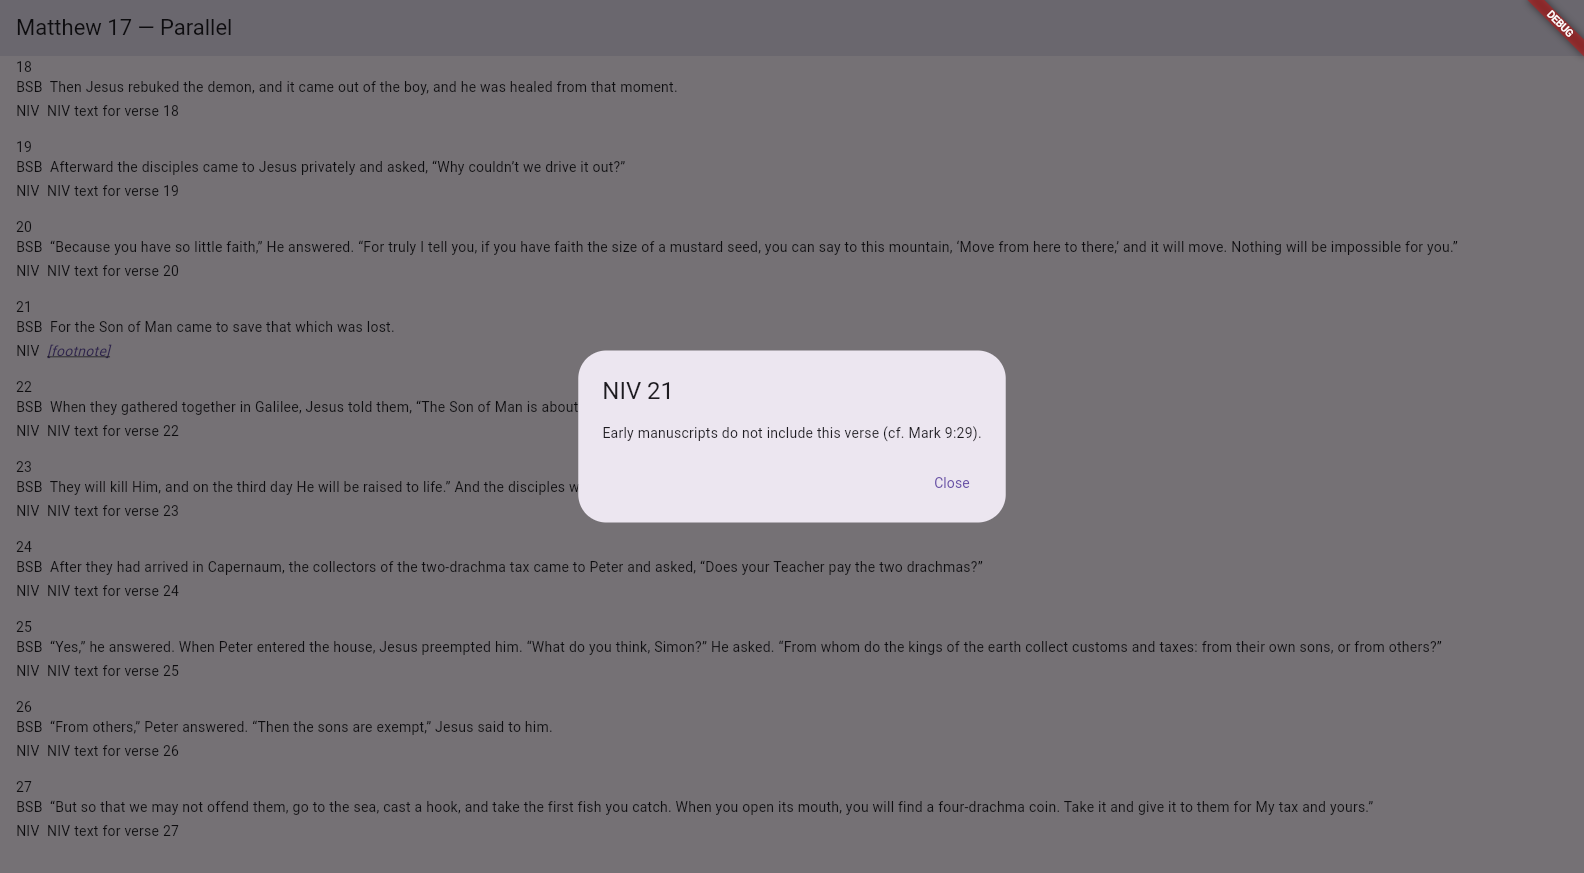
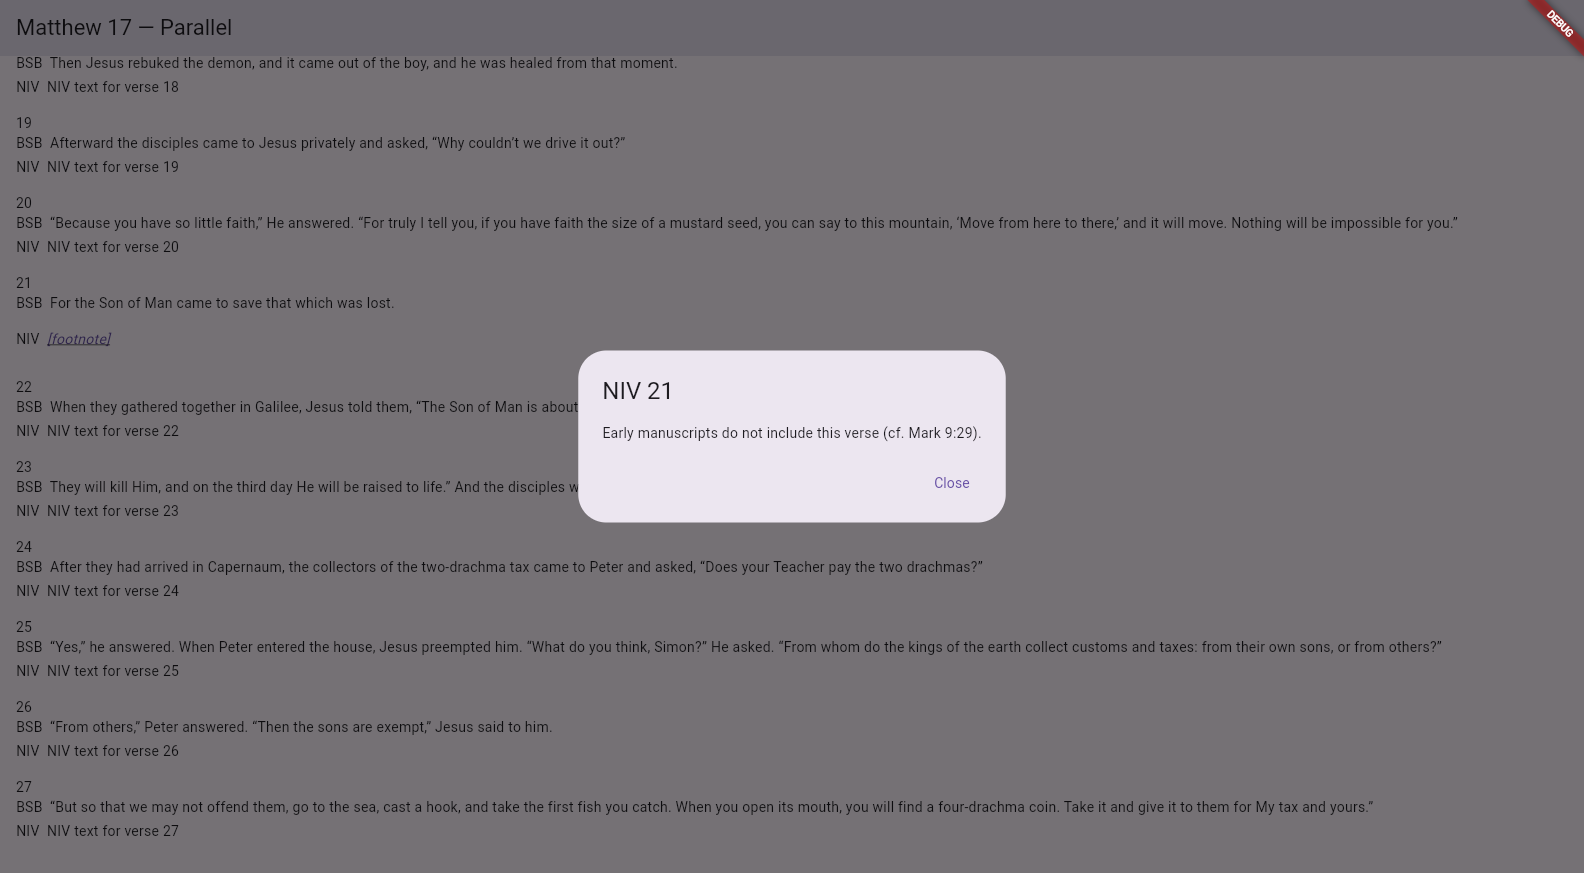
Milestone 4: fix gate FAIL — footnote tap target, false NKJV claim
Forge Verifier gate (run 1) FAILed on two Check 5/2 findings:

- lib/ui/parallel_screen.dart:184 — the footnote InkWell wrapped only
  its inline text with no minimum size, well under the project's own
  44dp accessibility floor (the same floor enforced for constellation
  node tap targets). Fixed with a 44px-tall SizedBox around the InkWell.
- lib/ui/settings_screen.dart:24 — claimed "NIV and NKJV parallel views
  are available" when no code path ever requests NKJV (ParallelScreen
  defaults to NIV only, no picker exists). Corrected to describe only
  what's actually reachable; wiring an NKJV path isn't required by any
  M4 acceptance criterion, so isn't invented scope here.

Re-ran the full battery clean (analyze 0 issues, test 40/40, build web
exit 0) and recaptured the two M4-02 screenshots (layout shifted
slightly from the SizedBox).

Changed region(s): [[0.0, 0.0619, 0.8971, 0.3093], [0.0, 0.3402, 0.2475, 0.433]]

diff --git a/lib/ui/parallel_screen.dart b/lib/ui/parallel_screen.dart
@@ -181,30 +181,40 @@ class _OtherVerseLine extends StatelessWidget {
     final note = status is VerseFootnoted
         ? (status! as VerseFootnoted).note
         : 'This verse does not appear in this translation.';
-    return InkWell(
-      onTap: () => showDialog<void>(
-        context: context,
-        builder: (context) => AlertDialog(
-          title: Text('$abbreviation $verseNumber'),
-          content: Text(note),
-          actions: [
-            TextButton(onPressed: () => Navigator.of(context).pop(), child: const Text('Close')),
-          ],
+    // Fixed-height tap area, not just the inline text glyphs: the text
+    // alone (~20 logical px tall) falls well under the project's 44dp
+    // accessibility floor (see kNodeRadius in constellation_view.dart for
+    // the equivalent floor on the graph's own tap targets).
+    return SizedBox(
+      height: 44,
+      child: InkWell(
+        onTap: () => showDialog<void>(
+          context: context,
+          builder: (context) => AlertDialog(
+            title: Text('$abbreviation $verseNumber'),
+            content: Text(note),
+            actions: [
+              TextButton(onPressed: () => Navigator.of(context).pop(), child: const Text('Close')),
+            ],
+          ),
         ),
-      ),
-      child: Text.rich(
-        TextSpan(
-          children: [
-            TextSpan(text: '$abbreviation  '),
+        child: Align(
+          alignment: Alignment.centerLeft,
+          child: Text.rich(
             TextSpan(
-              text: '[footnote]',
-              style: TextStyle(
-                fontStyle: FontStyle.italic,
-                decoration: TextDecoration.underline,
-                color: Theme.of(context).colorScheme.primary,
-              ),
+              children: [
+                TextSpan(text: '$abbreviation  '),
+                TextSpan(
+                  text: '[footnote]',
+                  style: TextStyle(
+                    fontStyle: FontStyle.italic,
+                    decoration: TextDecoration.underline,
+                    color: Theme.of(context).colorScheme.primary,
+                  ),
+                ),
+              ],
             ),
-          ],
+          ),
         ),
       ),
     );

diff --git a/lib/ui/settings_screen.dart b/lib/ui/settings_screen.dart
@@ -21,10 +21,10 @@ class SettingsScreen extends StatelessWidget {
             const SizedBox(height: 4),
             Text(
               apiKeyConfigured
-                  ? 'Configured — NIV and NKJV parallel views are available.'
+                  ? 'Configured — the NIV parallel view is available.'
                   : 'Not configured — Tapestry runs in Berean Standard Bible-only '
                         'mode. This is fully offline and complete on its own; the '
-                        'key only unlocks the optional NIV/NKJV parallel view.',
+                        'key only unlocks the optional NIV parallel view.',
             ),
           ],
         ),